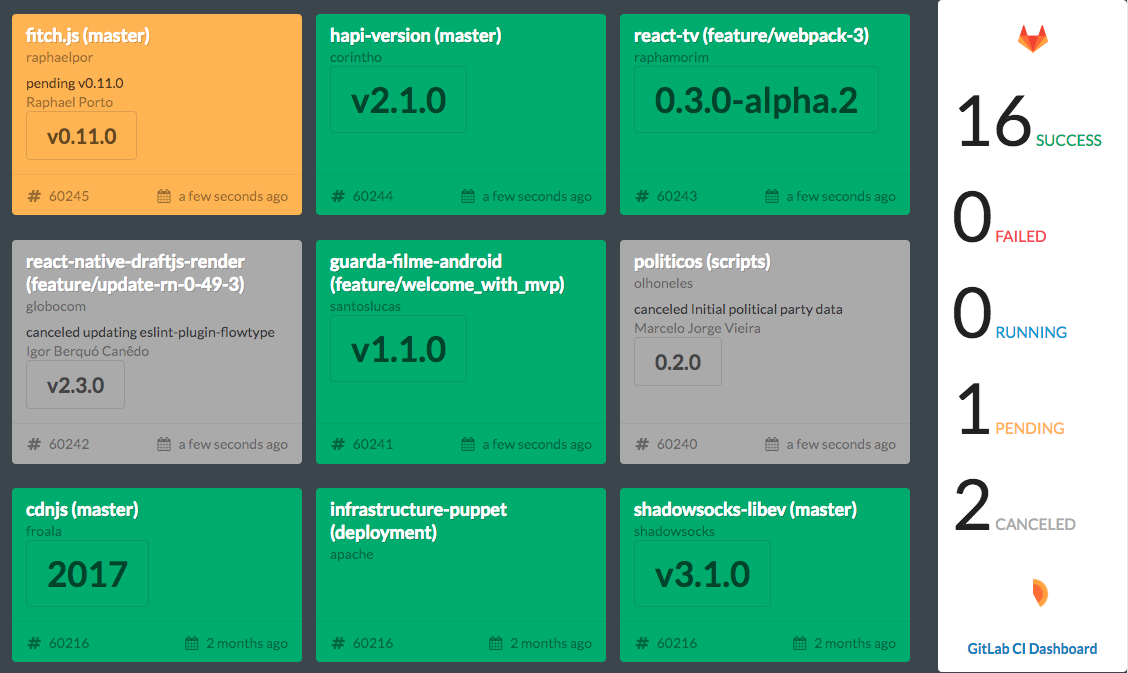
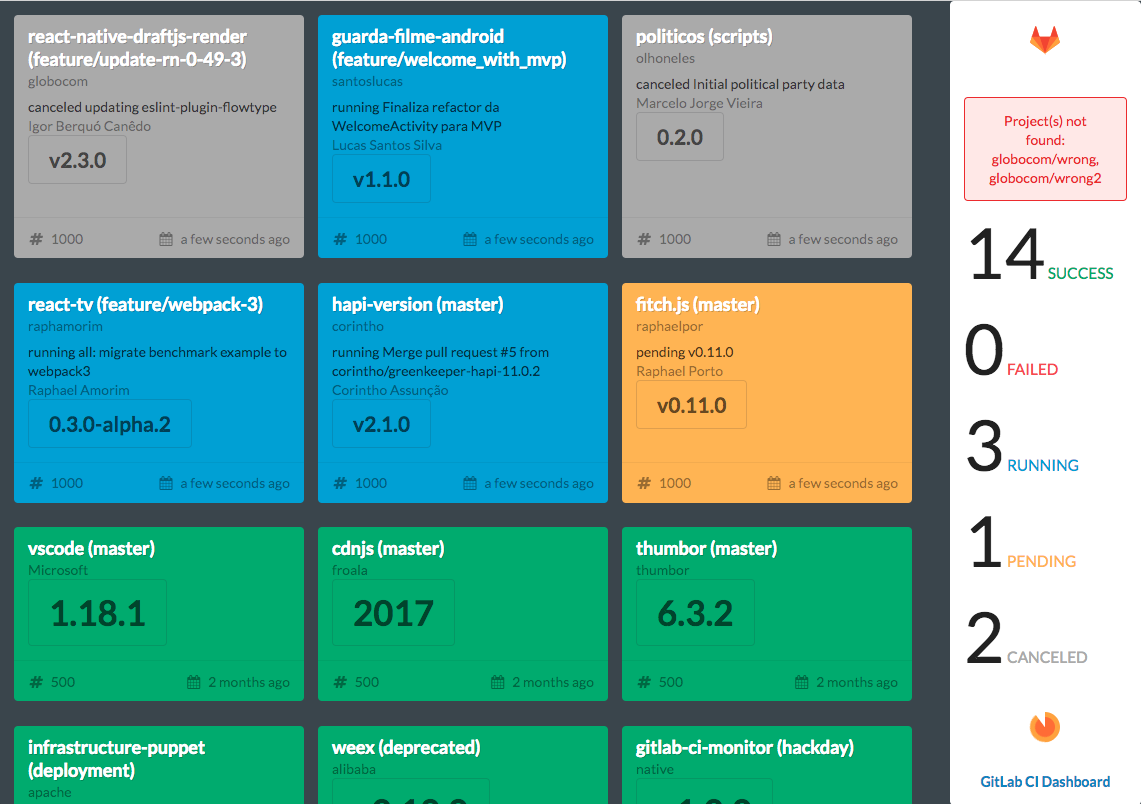
CHANGE #20: Improve error message; move error message to painel
WIP: handler error tests

CHANGE: move error componente into painel

CHANGE: add wrong projects message error

FIX: remove console log

CHANGE: update sample image

diff --git a/src/components/Painel.vue b/src/components/Painel.vue
@@ -3,6 +3,9 @@
     <div class="ui row centered" style="padding-bottom: 2em">
       <img class="logo" src="../assets/gitlab-logo.svg" />
     </div>
+    <div class="ui row centered" style="padding: 1em">
+      <error v-bind:onError="onError" />
+    </div>
     <div v-for="s in localStatus" v-bind:key="s.color" class="ui row">
       <div style="margin: 1em">
         <span style="font-size: 5em">{{ s.total }}</span>
@@ -36,67 +39,76 @@
 </template>
 
 <script>
-  export default {
-    name: 'painel',
-    props: ['status', 'interval'],
-    computed: {
-      localStatus () {
-        return this.painelStatus.map((ps) => {
-          if (this.status == null) {
-            return ps
-          }
-          const arr = this.status.filter((s) => {
-            return s.text === ps.text
-          })
-          if (arr.length > 0) {
-            const foundStatus = arr[0]
-            ps.total = foundStatus.total
-          }
+import Error from './Error'
+
+export default {
+  name: 'painel',
+  components: {
+    Error
+  },
+  props: [
+    'status',
+    'interval',
+    'onError'
+  ],
+  computed: {
+    localStatus () {
+      return this.painelStatus.map((ps) => {
+        if (this.status == null) {
           return ps
+        }
+        const arr = this.status.filter((s) => {
+          return s.text === ps.text
         })
-      },
-      filterAnimation () {
-        return `opa ${this.interval}s steps(1, end) infinite reverse`
-      },
-      maskAnimation () {
-        return `opa ${this.interval}s steps(1, end) infinite`
-      },
-      spinnerAnimation () {
-        return `rota ${this.interval}s linear infinite`
-      }
+        if (arr.length > 0) {
+          const foundStatus = arr[0]
+          ps.total = foundStatus.total
+        }
+        return ps
+      })
     },
-    data () {
-      return {
-        painelStatus: [
-          {
-            text: 'success',
-            color: '#00ad68',
-            total: 0
-          },
-          {
-            text: 'failed',
-            color: '#e7484d',
-            total: 0
-          },
-          {
-            text: 'running',
-            color: '#2d9fd8',
-            total: 0
-          },
-          {
-            text: 'pending',
-            color: '#ffb541',
-            total: 0
-          },
-          {
-            text: 'canceled',
-            color: '#aaaaaa',
-            total: 0
-          }
-        ]
-      }
+    filterAnimation () {
+      return `opa ${this.interval}s steps(1, end) infinite reverse`
+    },
+    maskAnimation () {
+      return `opa ${this.interval}s steps(1, end) infinite`
+    },
+    spinnerAnimation () {
+      return `rota ${this.interval}s linear infinite`
+    }
+  },
+  data () {
+    return {
+      painelStatus: [
+        {
+          text: 'success',
+          color: '#00ad68',
+          total: 0
+        },
+        {
+          text: 'failed',
+          color: '#e7484d',
+          total: 0
+        },
+        {
+          text: 'running',
+          color: '#2d9fd8',
+          total: 0
+        },
+        {
+          text: 'pending',
+          color: '#ffb541',
+          total: 0
+        },
+        {
+          text: 'canceled',
+          color: '#aaaaaa',
+          total: 0
+        }
+      ]
     }
   }
+}
 </script>
 <style>
 .wrapper {

diff --git a/src/main.js b/src/main.js
@@ -63,7 +63,8 @@ var root = new Vue({
       onInvalid: false,
       onError: null,
       debug: '',
-      interval: 60
+      interval: 60,
+      wrongProjects: []
     }
   },
   computed: {
@@ -182,21 +183,45 @@ var root = new Vue({
     },
     handlerError (error) {
       if (error == null) {
-        this.onError = { message: '' }
+        this.onError = {
+          code: 0,
+          message: ''
+        }
+        this.wrongProjects = []
         return
       }
-      this.onError = {message: 'Something went wrong. Make sure the configuration is ok and your Gitlab is up and running.'}
+      this.onError = {
+        code: 1,
+        message: 'Something went wrong. Make sure the configuration is ok and your Gitlab is up and running.'
+      }
 
       if (error.message === 'Wrong format') {
-        this.onError = { message: 'Wrong projects format! Try: \'namespace/project\' or \'namespace/project/branch\'' }
+        this.onError = {
+          code: 2,
+          message: 'Wrong projects format! Try: \'namespace/project\' or \'namespace/project/branch\''
+        }
       }
 
       if (error.message === 'Network Error') {
-        this.onError = { message: 'Network Error. Please check the Gitlab domain.' }
+        this.onError = {
+          code: 3,
+          message: 'Network Error. Please check the Gitlab domain.'
+        }
       }
 
       if (error.response && error.response.status === 401) {
-        this.onError = { message: 'Unauthorized Access. Please check your token.' }
+        this.onError = {
+          code: 4,
+          message: 'Unauthorized Access. Please check your token.'
+        }
+      }
+
+      if (error.message === '404 - Not Found.') {
+        this.wrongProjects.push(error.project)
+        this.onError = {
+          code: 5,
+          message: `Project(s) not found: ${this.wrongProjects.map(w => ' ' + w)}`
+        }
       }
     },
     configValid () {
@@ -242,7 +267,10 @@ var root = new Vue({
               this.fetchPipelines({repo, project: response.data})
             }
           })
-          .catch(this.handlerError.bind(this))
+          .catch((err) => {
+            err.project = repo.nameWithNamespace
+            this.handlerError(err)
+          })
       })
     },
     addStatusQueue (status, action) {

diff --git a/test/unit/specs/main.spec.js b/test/unit/specs/main.spec.js
@@ -167,10 +167,37 @@ describe('main.js', () => {
       expect(arr.length).toEqual(2)
     })
   })
-  describe('Standalone', () => {
+  describe('handlerError', () => {
     const vm2 = RootMain.$mount()
     it('Should load params from stadalone mode', () => {
       expect(vm2.projectsFile).toEqual('standalone')
+    })
+  })
+  describe('Standalone', () => {
+    const vmError = RootMain.$mount()
+    it('Should reset error when error is null', () => {
+      vmError.handlerError(null)
+      expect(vmError.onError.message).toEqual('')
+    })
+    it('Should return code error 1 as default error', () => {
+      vmError.handlerError({message: 'Generic Error'})
+      expect(vmError.onError.code).toEqual(1)
+    })
+    it('Should return code error 2 when is "Wront format"', () => {
+      vmError.handlerError({message: 'Wrong format'})
+      expect(vmError.onError.code).toEqual(2)
+    })
+    it('Should return code error 3 when is "Network Error"', () => {
+      vmError.handlerError({message: 'Network Error'})
+      expect(vmError.onError.code).toEqual(3)
+    })
+    it('Should return code error 4 when status error is 401', () => {
+      vmError.handlerError({response: {status: 401}})
+      expect(vmError.onError.code).toEqual(4)
+    })
+    it('Should return code error 5 when is "404 - Not Found."', () => {
+      vmError.handlerError({message: '404 - Not Found.'})
+      expect(vmError.onError.code).toEqual(5)
     })
   })
   describe('methods', () => {

diff --git a/test/unit/specs/utils.spec.js b/test/unit/specs/utils.spec.js
@@ -9,8 +9,13 @@ describe('Utilities', () => {
     const topItem = getTopItem(arr)
     expect('a').toEqual(topItem)
   })
+  it('Shout return undefined when passa empty array', () => {
+    const arr = []
+    const topItem = getTopItem(arr)
+    expect(topItem).toEqual(undefined)
+  })
   describe('Get querystring params', () => {
-    const url = 'http://localhost:8080/?gitlab=localhost:8089&projects=namespace1/project1/branch1&token=_&projectsFile=http://localhost:8080/static/file.json&gitlabciProtocol=http&interval=5&hideSuccessCards=false'
+    const url = 'http://localhost:8080/?gitlab=localhost:8089&projects=namespace1/project1/branch1&token=_&projectsFile=http://localhost:8080/static/file.json&gitlabciProtocol=http&interval=5&hideSuccessCards=false&hideVersion=true'
     it('Should get non-optional params from url', () => {
       // gitlab
       const gitlab = getParameterByName('gitlab', url)
@@ -40,6 +45,10 @@ describe('Utilities', () => {
       // interval
       const interval = getParameterByName('interval', url)
       expect('5').toEqual(interval)
+
+      // hideVersion
+      const hideVersion = getParameterByName('hideVersion', url)
+      expect(hideVersion).toBeTruthy()
     })
   })
 })

diff --git a/src/App.vue b/src/App.vue
@@ -2,7 +2,6 @@
   <div id="app" class="ui grid">
     <div class="two column row" id="gcim-app">
       <div class="thirteen wide column">
-        <error v-bind:onError="onError" />
         <invalid-config v-bind:onInvalid="onInvalid" />
         <loading v-bind:onLoading="onLoading" />
         <builds
@@ -17,6 +16,7 @@
         <painel
           v-bind:status="status"
           v-bind:interval="interval"
+          v-bind:onError="onError"
         />
       </div>
     </div>
@@ -25,7 +25,6 @@
 
 <script>
 import Painel from './components/Painel'
-import Error from './components/Error'
 import InvalidConfig from './components/InvalidConfig'
 import Loading from './components/Loading'
 import Builds from './components/Builds'
@@ -34,7 +33,6 @@ export default {
   name: 'app',
   components: {
     Painel,
-    Error,
     InvalidConfig,
     Loading,
     Builds

diff --git a/test/unit/specs/Builds.spec.js b/test/unit/specs/Builds.spec.js
@@ -31,6 +31,16 @@ describe('Builds.vue', () => {
     expect('bounce-out-top')
     .toEqual(positionClass)
   })
+  it('should return class "bounce-in-top" when status isnt success and hideSuccessCards is true', () => {
+    const Constructor = Vue.extend(Builds)
+    const vm = new Constructor().$mount()
+    vm.hideSuccessCards = true
+    const positionClass = vm.positionClass({
+      status: 'failed'
+    })
+    expect('bounce-in-top')
+    .toEqual(positionClass)
+  })
   it('should show version card when hideVersion is false and has tag name', () => {
     const Constructor = Vue.extend(Builds)
     const vm = new Constructor().$mount()

diff --git a/src/components/Builds.vue b/src/components/Builds.vue
@@ -20,7 +20,9 @@
               <h1 style="font-size: 1.5em">{{ build.tag_name }}</h1>
             </div>
             <div v-if="isSuccessCard(build) && showVersion(build)" class="ui center floated basic button">
-              <h1 style="font-size: 2.5em">{{ build.tag_name }}</h1>
+              <h1 style="font-size: 2.5em">
+                {{ build.tag_name }}
+              </h1>
             </div>
           </div>
           <div class="extra content">

diff --git a/test/unit/specs/projects.spec.js b/test/unit/specs/projects.spec.js
@@ -57,5 +57,9 @@ describe('Projects File', () => {
       expect(projects[1].branch).toEqual('master')
       expect(projects[0].project).toEqual('react-native-draftjs-render')
     })
+    it('Should return empty projects', () => {
+      const projects = getProjectsByQuerystring('a,b,c')
+      expect(projects.length).toEqual(0)
+    })
   })
 })

diff --git a/src/components/Error.vue b/src/components/Error.vue
@@ -1,7 +1,9 @@
 <template>
   <div v-show="this.show" class="row" id="gcim-error">
     <div class="eight wide column centered ">
-      <div class="ui red message">{{ this.message }}</div>
+      <div class="ui red message">
+        {{ this.message }}
+      </div>
     </div>
   </div>
 </template>

diff --git a/src/components/Loading.vue b/src/components/Loading.vue
@@ -1,6 +1,6 @@
 <template>
   <div v-show="loading" class="row" id="gcim-loading">
-    <div class="ui large active centered inline loader"></div>
+    <div class="ui large active centered inline loader" />
   </div>
 </template>
 

diff --git a/src/components/InvalidConfig.vue b/src/components/InvalidConfig.vue
@@ -26,7 +26,7 @@
     "description": "React Native render for draft.js model",
     "namespace": "globocom",
     "project": "react-native-draftjs-render",
-    "branch": "master"
+    "branch": "develop"
   }
   (...)
 ]
